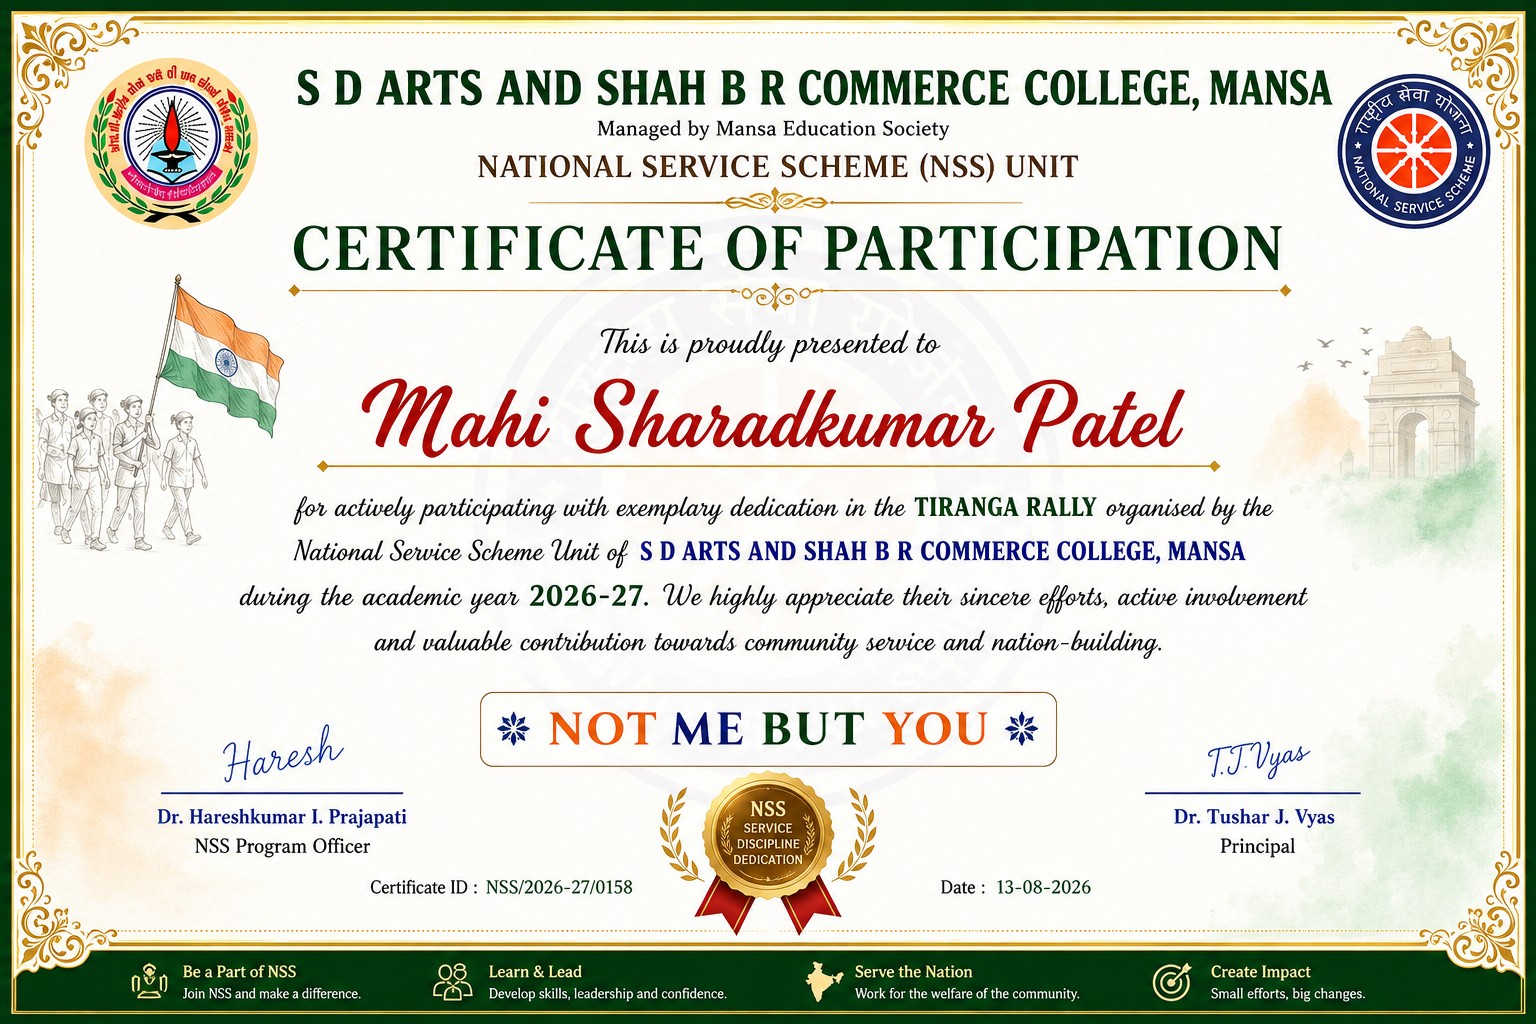
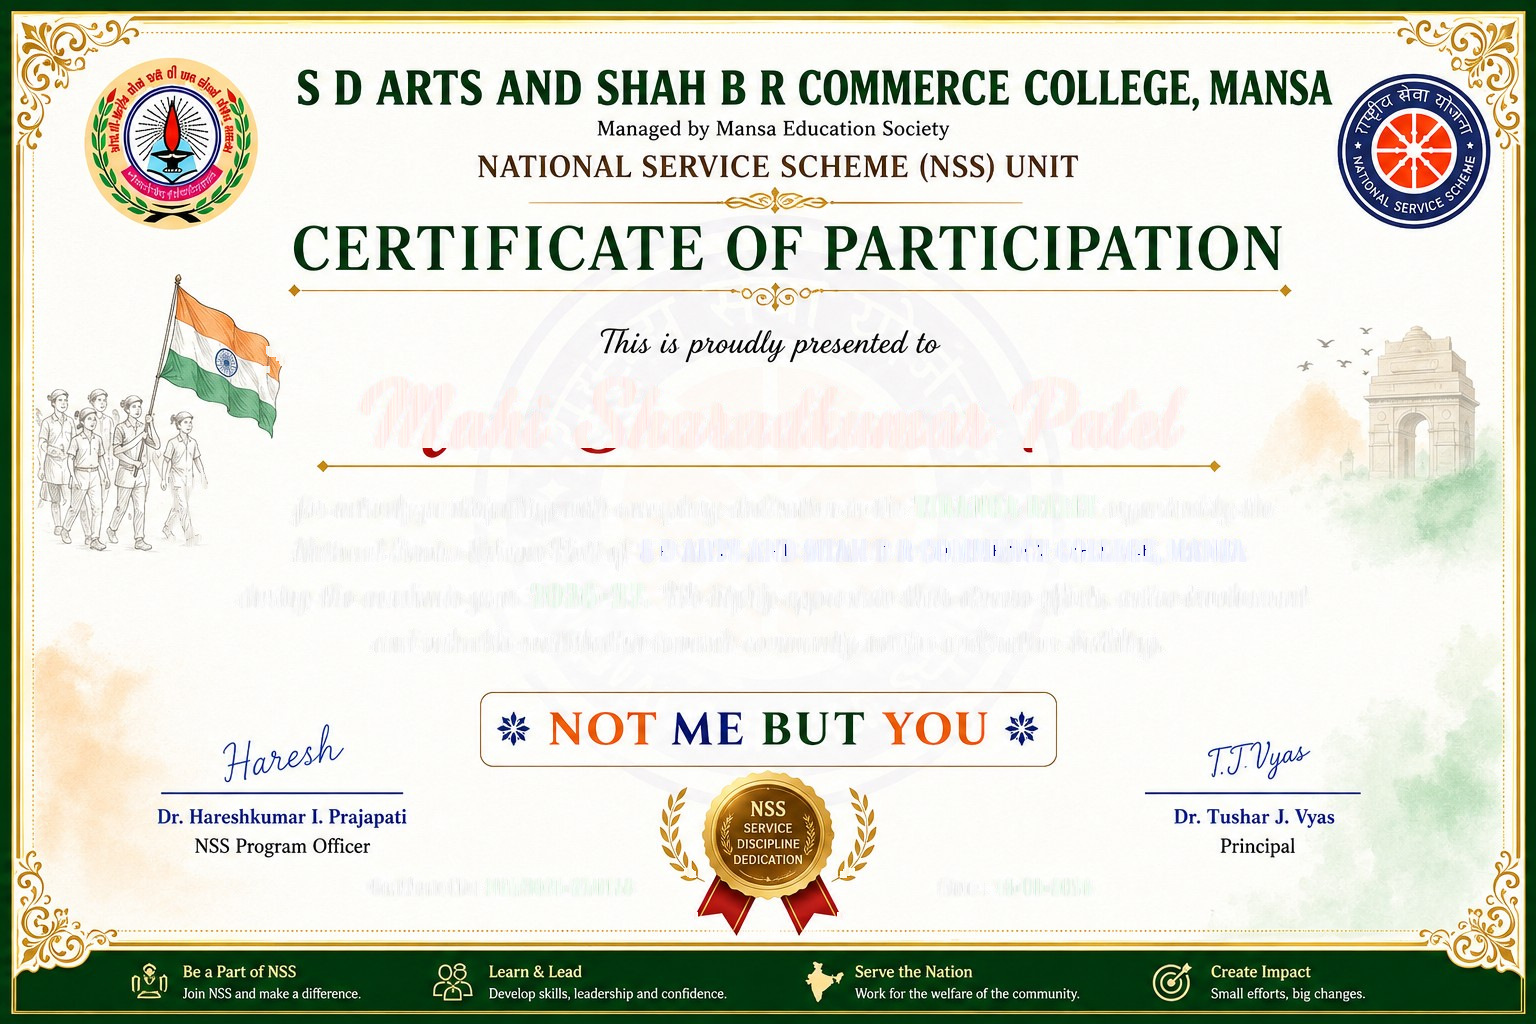
Print certificate ID and date once on a clean template
Erase the sample Certificate ID and Date from the approved JPEG so
NSS/2025-26 and 13 August cannot show through. Overlay prints one ID
in NSS/2026-27/... form and the event date in that same place.

diff --git a/src/lib/nss/certificates.ts b/src/lib/nss/certificates.ts
@@ -1,4 +1,4 @@
-import { academicYear, certDisplayName, formatLongDate } from "./format";
+import { academicYear, certDisplayName, formatLongDate, parseDob } from "./format";
 import { openHtmlDocument, openHtmlDocumentWhenReady, toDataUrl } from "./print";
 import { qrSvg } from "./qr";
 import type { AttendanceRecord, IssuedCertificate, NssEvent, PortalSettings, Volunteer } from "./types";
@@ -12,10 +12,24 @@ function escapeHtml(s: string) {
     .replaceAll("'", "&#39;");
 }
 
+function eventCodeOf(event: NssEvent) {
+  return event.id.replace(/^evt-/, "").slice(0, 8).toUpperCase();
+}
+
 export function certificateSerial(volunteer: Volunteer, event: NssEvent) {
-  const year = academicYear(event.date).replace("-", "");
-  const eventCode = event.id.replace(/^evt-/, "").slice(0, 8).toUpperCase();
-  return `NSS/${year}/${volunteer.volunteerId}/${eventCode}`;
+  const eventCode = eventCodeOf(event);
+  return `NSS/${academicYear(event.date)}/${volunteer.volunteerId}/${eventCode}`;
+}
+
+export function certificateSerials(volunteer: Volunteer, event: NssEvent) {
+  const year = academicYear(event.date);
+  const eventCode = eventCodeOf(event);
+  const id = volunteer.volunteerId;
+  return [`NSS/${year}/${id}/${eventCode}`, `NSS/${year.replace("-", "")}/${id}/${eventCode}`];
+}
+
+function certDateIso(event: NssEvent, fallback?: string) {
+  return parseDob(event.date) || parseDob(fallback || "") || String(event.date || fallback || "").slice(0, 10);
 }
 
 const CERT_CSS = `
@@ -40,11 +54,6 @@ body { font-family: "Cormorant Garamond", Georgia, serif; color: #171717; }
   position: absolute; inset: 0; width: 100%; height: 100%;
   object-fit: fill; z-index: 0; display: block;
 }
-.mask { position: absolute; background: #fcfaf1; z-index: 2; }
-.mask-name { left: 18%; top: 34.5%; width: 64%; height: 12.2%; border-radius: 3px; }
-.mask-copy { left: 14%; top: 46.0%; width: 72%; height: 21.5%; border-radius: 3px; }
-.mask-id { left: 14.5%; top: 84.0%; width: 29.5%; height: 5.6%; }
-.mask-date { left: 56.0%; top: 84.0%; width: 29.5%; height: 5.6%; }
 .text-layer { position: absolute; inset: 0; z-index: 3; }
 .name {
   position: absolute; left: 10%; top: 35.2%; width: 80%;
@@ -55,11 +64,8 @@ body { font-family: "Cormorant Garamond", Georgia, serif; color: #171717; }
   white-space: nowrap; overflow: hidden;
   font-variant: normal; text-transform: none; font-synthesis: none;
 }
-.name-line {
-  position: absolute; left: 20.6%; top: 45.1%; width: 58.8%; height: 1px; background: #b58a2d;
-}
 .copy {
-  position: absolute; left: 15%; top: 46.6%; width: 70%;
+  position: absolute; left: 15%; top: 46.8%; width: 70%;
   margin: 0; text-align: center; font-style: italic; font-size: clamp(12px, 1.55vw, 23px);
   line-height: 1.48; color: #111; font-weight: 500;
 }
@@ -76,15 +82,15 @@ body { font-family: "Cormorant Garamond", Georgia, serif; color: #171717; }
   background: transparent;
 }
 .cert-id {
-  position: absolute; left: 14.5%; top: 84.7%; width: 29.5%;
+  position: absolute; left: 10%; top: 85.65%; width: 35%;
   text-align: center; font-family: "Noto Sans", sans-serif;
-  font-size: clamp(9px, 1.02vw, 15px); font-weight: 600; color: #1a1a1a;
+  font-size: clamp(10px, 1.08vw, 16px); font-weight: 600; color: #1a1a1a;
   line-height: 1.2; letter-spacing: 0.01em;
 }
 .date {
-  position: absolute; left: 56.0%; top: 84.7%; width: 29.5%;
+  position: absolute; left: 55%; top: 85.65%; width: 35%;
   text-align: center; font-family: "Noto Sans", sans-serif;
-  font-size: clamp(9px, 1.02vw, 15px); font-weight: 600; color: #1a1a1a;
+  font-size: clamp(10px, 1.08vw, 16px); font-weight: 600; color: #1a1a1a;
   line-height: 1.2; letter-spacing: 0.01em;
 }
 .qr {
@@ -138,7 +144,7 @@ function certificateSheet(opts: {
   const name = escapeHtml(certDisplayName(opts.volunteer.fullName));
   const eventName = escapeHtml(opts.event.name.toUpperCase());
   const serial = escapeHtml(certificateSerial(opts.volunteer, opts.event));
-  const issued = escapeHtml(formatLongDate(opts.issuedOn.slice(0, 10)));
+  const issued = escapeHtml(formatLongDate(opts.issuedOn));
   const year = escapeHtml(academicYear(opts.event.date));
   // Keep the approved template's PO / Principal block (Haresh + T.J. Vyas).
   // Only a transparent uploaded signature image may sit on the script — never a white box.
@@ -152,13 +158,8 @@ function certificateSheet(opts: {
 
   return `<div class="sheet">
     <img class="bg" src="${opts.assets.template}" alt="" />
-    <div class="mask mask-name"></div>
-    <div class="mask mask-copy"></div>
-    <div class="mask mask-id"></div>
-    <div class="mask mask-date"></div>
     <div class="text-layer">
       <p class="name" style="font-size:${nameFontSize(name)}">${name}</p>
-      <span class="name-line"></span>
       <p class="copy">
         for actively participating with exemplary dedication in the <strong>${eventName}</strong> organised by the<br/>
         National Service Scheme Unit of <strong>${college.toUpperCase()}</strong><br/>
@@ -198,14 +199,16 @@ function wrapCertificateDocument(title: string, sheets: string) {
 }
 
 async function loadSheetAssets(settings: PortalSettings): Promise<SheetAssets> {
-  const templateSrc = settings.certificateTemplateUrl || "/images/certificate-template.jpg";
+  const bundled = "/images/certificate-template.jpg?v=20260912b";
+  const custom = String(settings.certificateTemplateUrl || "").trim();
+  const templateSrc = custom && !custom.includes("certificate-template.jpg") ? custom : bundled;
   const [template, poSignature, principalSignature] = await Promise.all([
     toDataUrl(templateSrc),
     toDataUrl(settings.poSignature),
     toDataUrl(settings.principalSignature),
   ]);
   return {
-    template: template || "/images/certificate-template.jpg",
+    template: template || bundled,
     poSignature,
     principalSignature,
   };
@@ -251,7 +254,7 @@ export async function htmlForCertificate(
       volunteer,
       event,
       settings,
-      issuedOn: event.date || cert.sentAt || cert.generatedAt,
+      issuedOn: certDateIso(event, cert.sentAt || cert.generatedAt),
       assets,
       qr,
     }),
@@ -270,7 +273,7 @@ export async function htmlForCertificates(
           volunteer: row.volunteer,
           event: row.event,
           settings,
-          issuedOn: row.event.date || row.cert.sentAt || row.cert.generatedAt,
+          issuedOn: certDateIso(row.event, row.cert.sentAt || row.cert.generatedAt),
           assets,
           qr: await qrFor(row.volunteer, row.event, settings),
         }),
@@ -295,6 +298,11 @@ export type CertificateLookup = {
   cert?: IssuedCertificate;
 };
 
+function serialMatches(volunteer: Volunteer, event: NssEvent, query: string) {
+  const q = query.trim().toLowerCase();
+  return certificateSerials(volunteer, event).some((serial) => serial.toLowerCase() === q);
+}
+
 export function resolveCertificate(
   state: {
     volunteers: Volunteer[];
@@ -317,21 +325,20 @@ export function resolveCertificate(
     const event = events.find((e) => e.id === cert.eventId);
     if (!volunteer || !event) continue;
     const serial = cert.certificateId || certificateSerial(volunteer, event);
-    if (cert.id.toLowerCase() === q || serial.toLowerCase() === q) {
-      return { volunteer, event, serial, cert };
+    if (cert.id.toLowerCase() === q || serial.toLowerCase() === q || serialMatches(volunteer, event, q)) {
+      return { volunteer, event, serial: certificateSerial(volunteer, event), cert };
     }
   }
 
   for (const volunteer of volunteers) {
     for (const event of events) {
-      const serial = certificateSerial(volunteer, event);
-      if (serial.toLowerCase() !== q) continue;
+      if (!serialMatches(volunteer, event, q)) continue;
       const issued = certificates.find((c) => c.volunteerId === volunteer.id && c.eventId === event.id);
       const present = attendance.some(
         (row) => row.volunteerId === volunteer.id && row.eventId === event.id && row.present,
       );
       if (!issued && !present) continue;
-      return { volunteer, event, serial, cert: issued };
+      return { volunteer, event, serial: certificateSerial(volunteer, event), cert: issued };
     }
   }
 

diff --git a/src/routes/verify.tsx b/src/routes/verify.tsx
@@ -54,7 +54,7 @@ function VerifyPage() {
                 className="h-11 flex-1 rounded-md border border-border bg-card px-3 text-sm"
                 value={id}
                 onChange={(e) => setId(e.target.value)}
-                placeholder="NSS/202627/NSS001/..."
+                placeholder="NSS/2026-27/NSS001/..."
                 aria-label="Certificate ID"
               />
               <Button type="submit">
